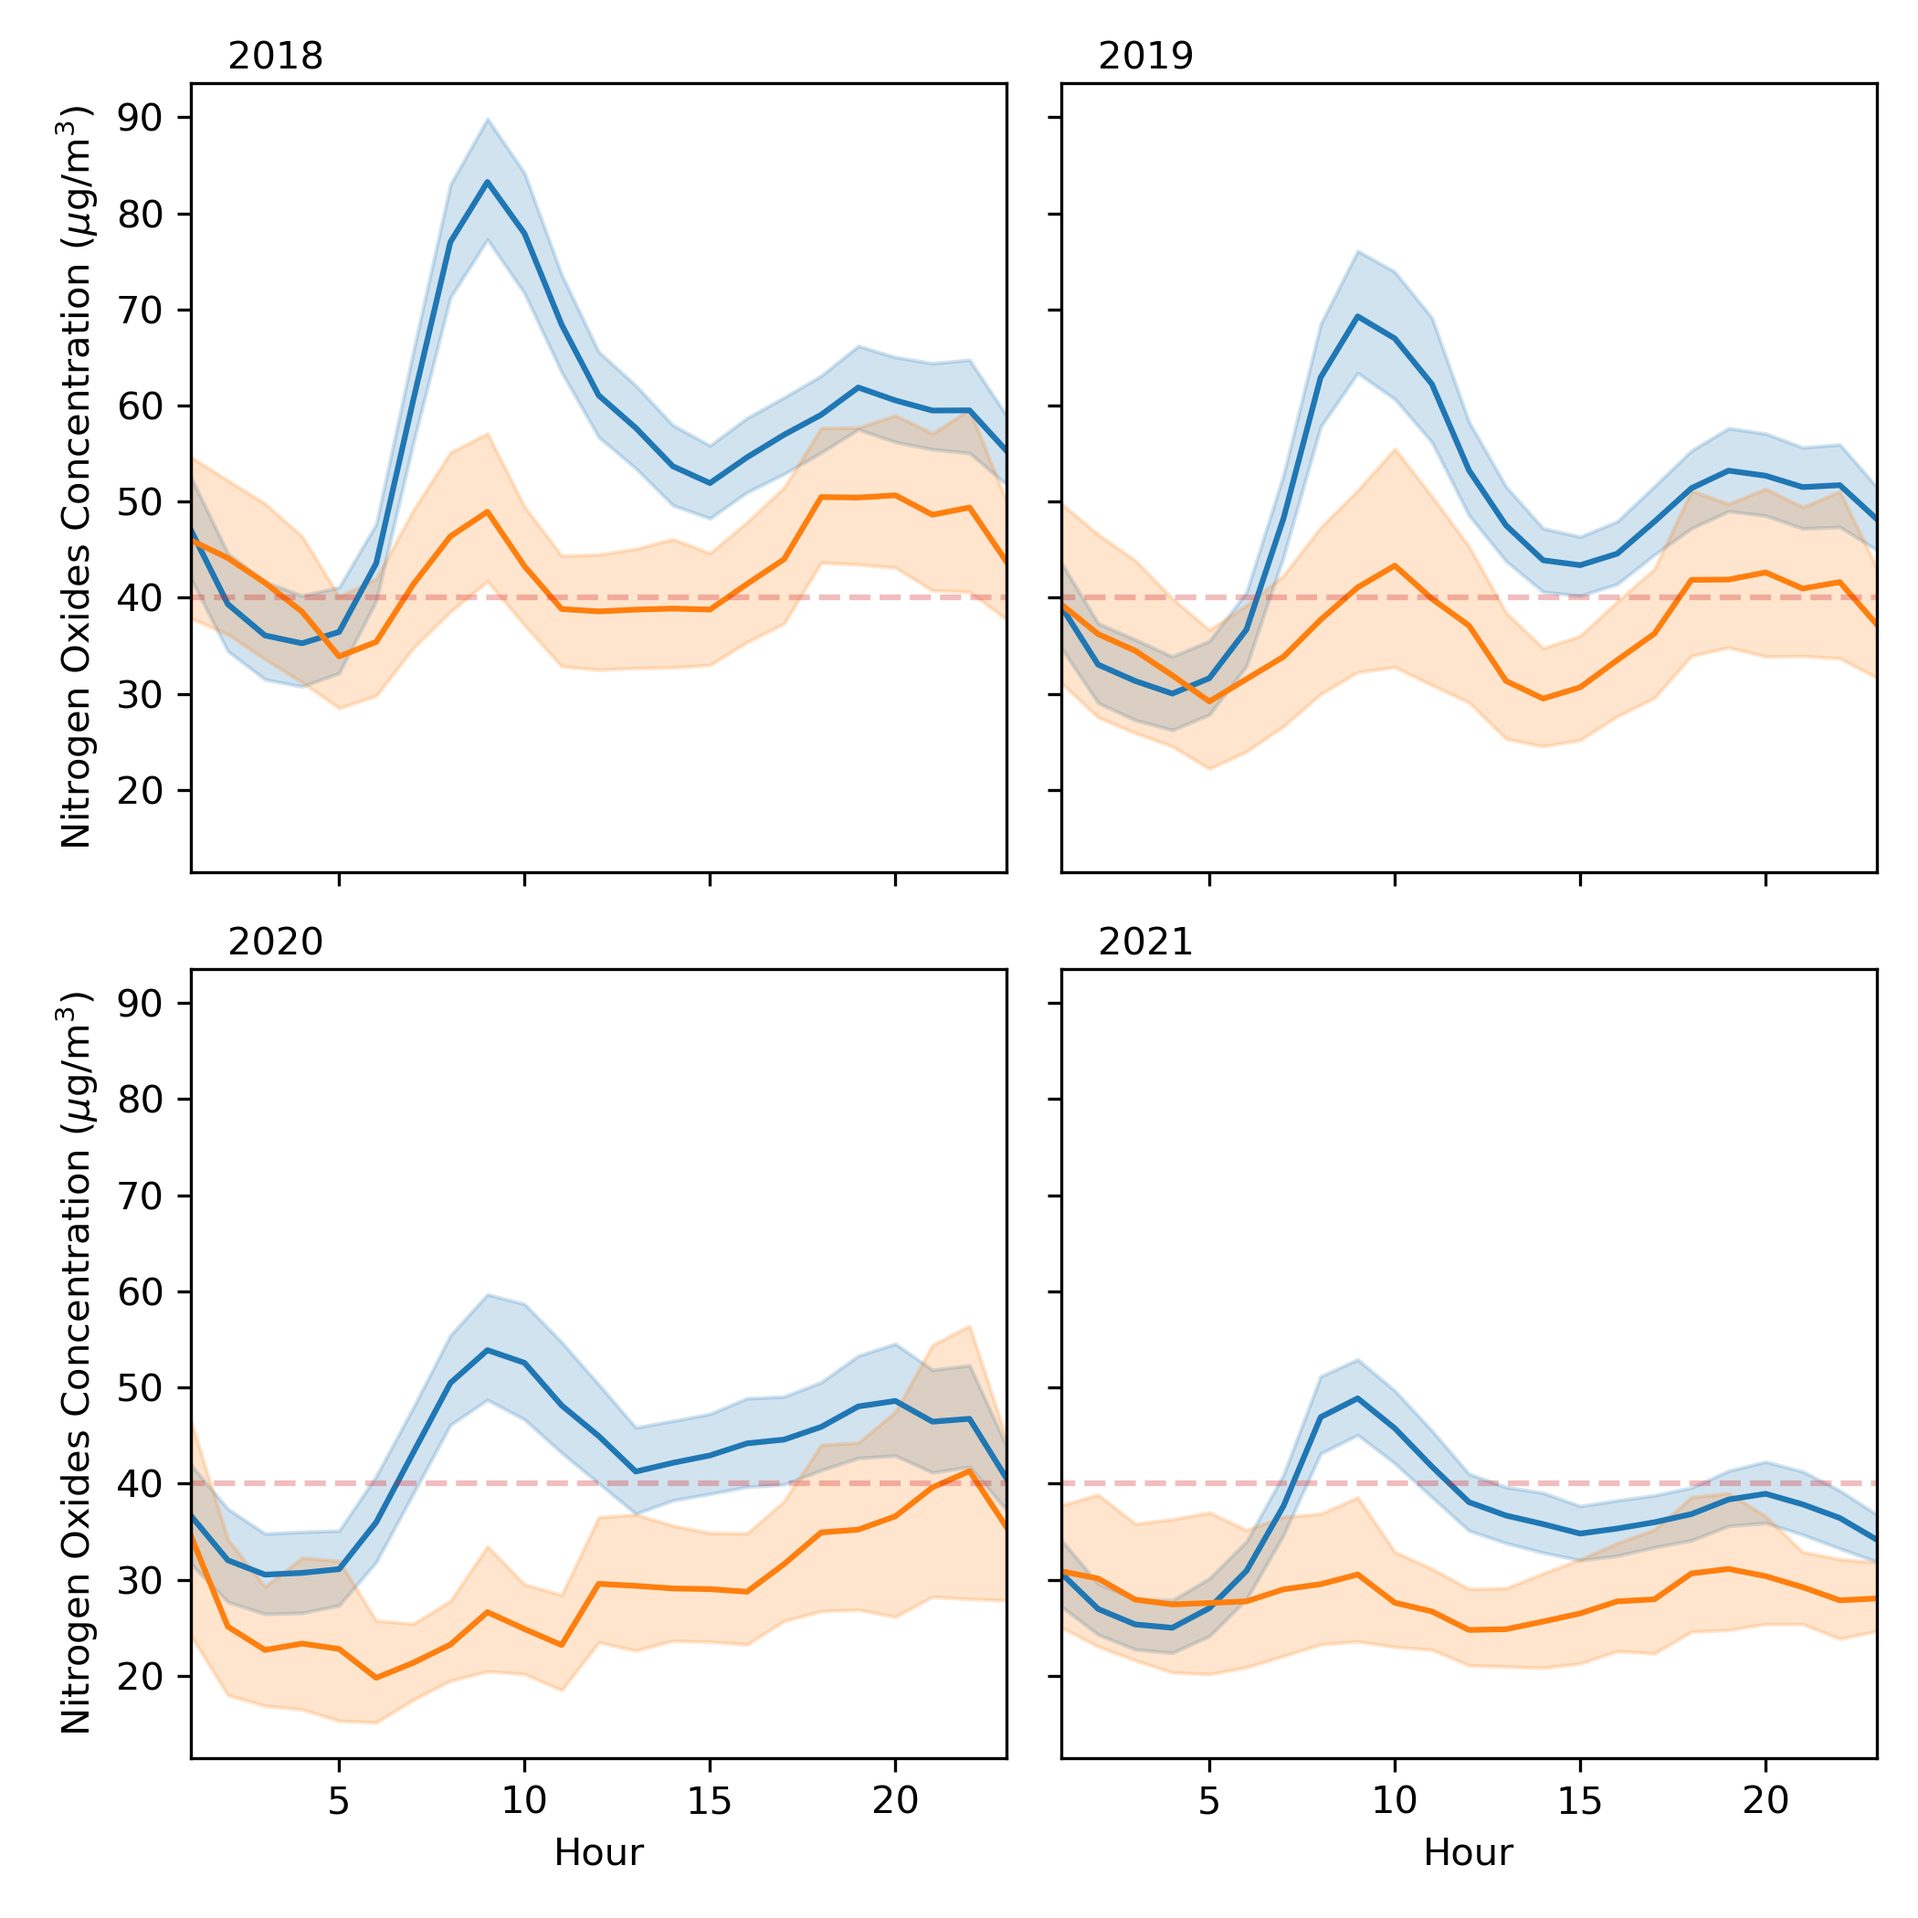
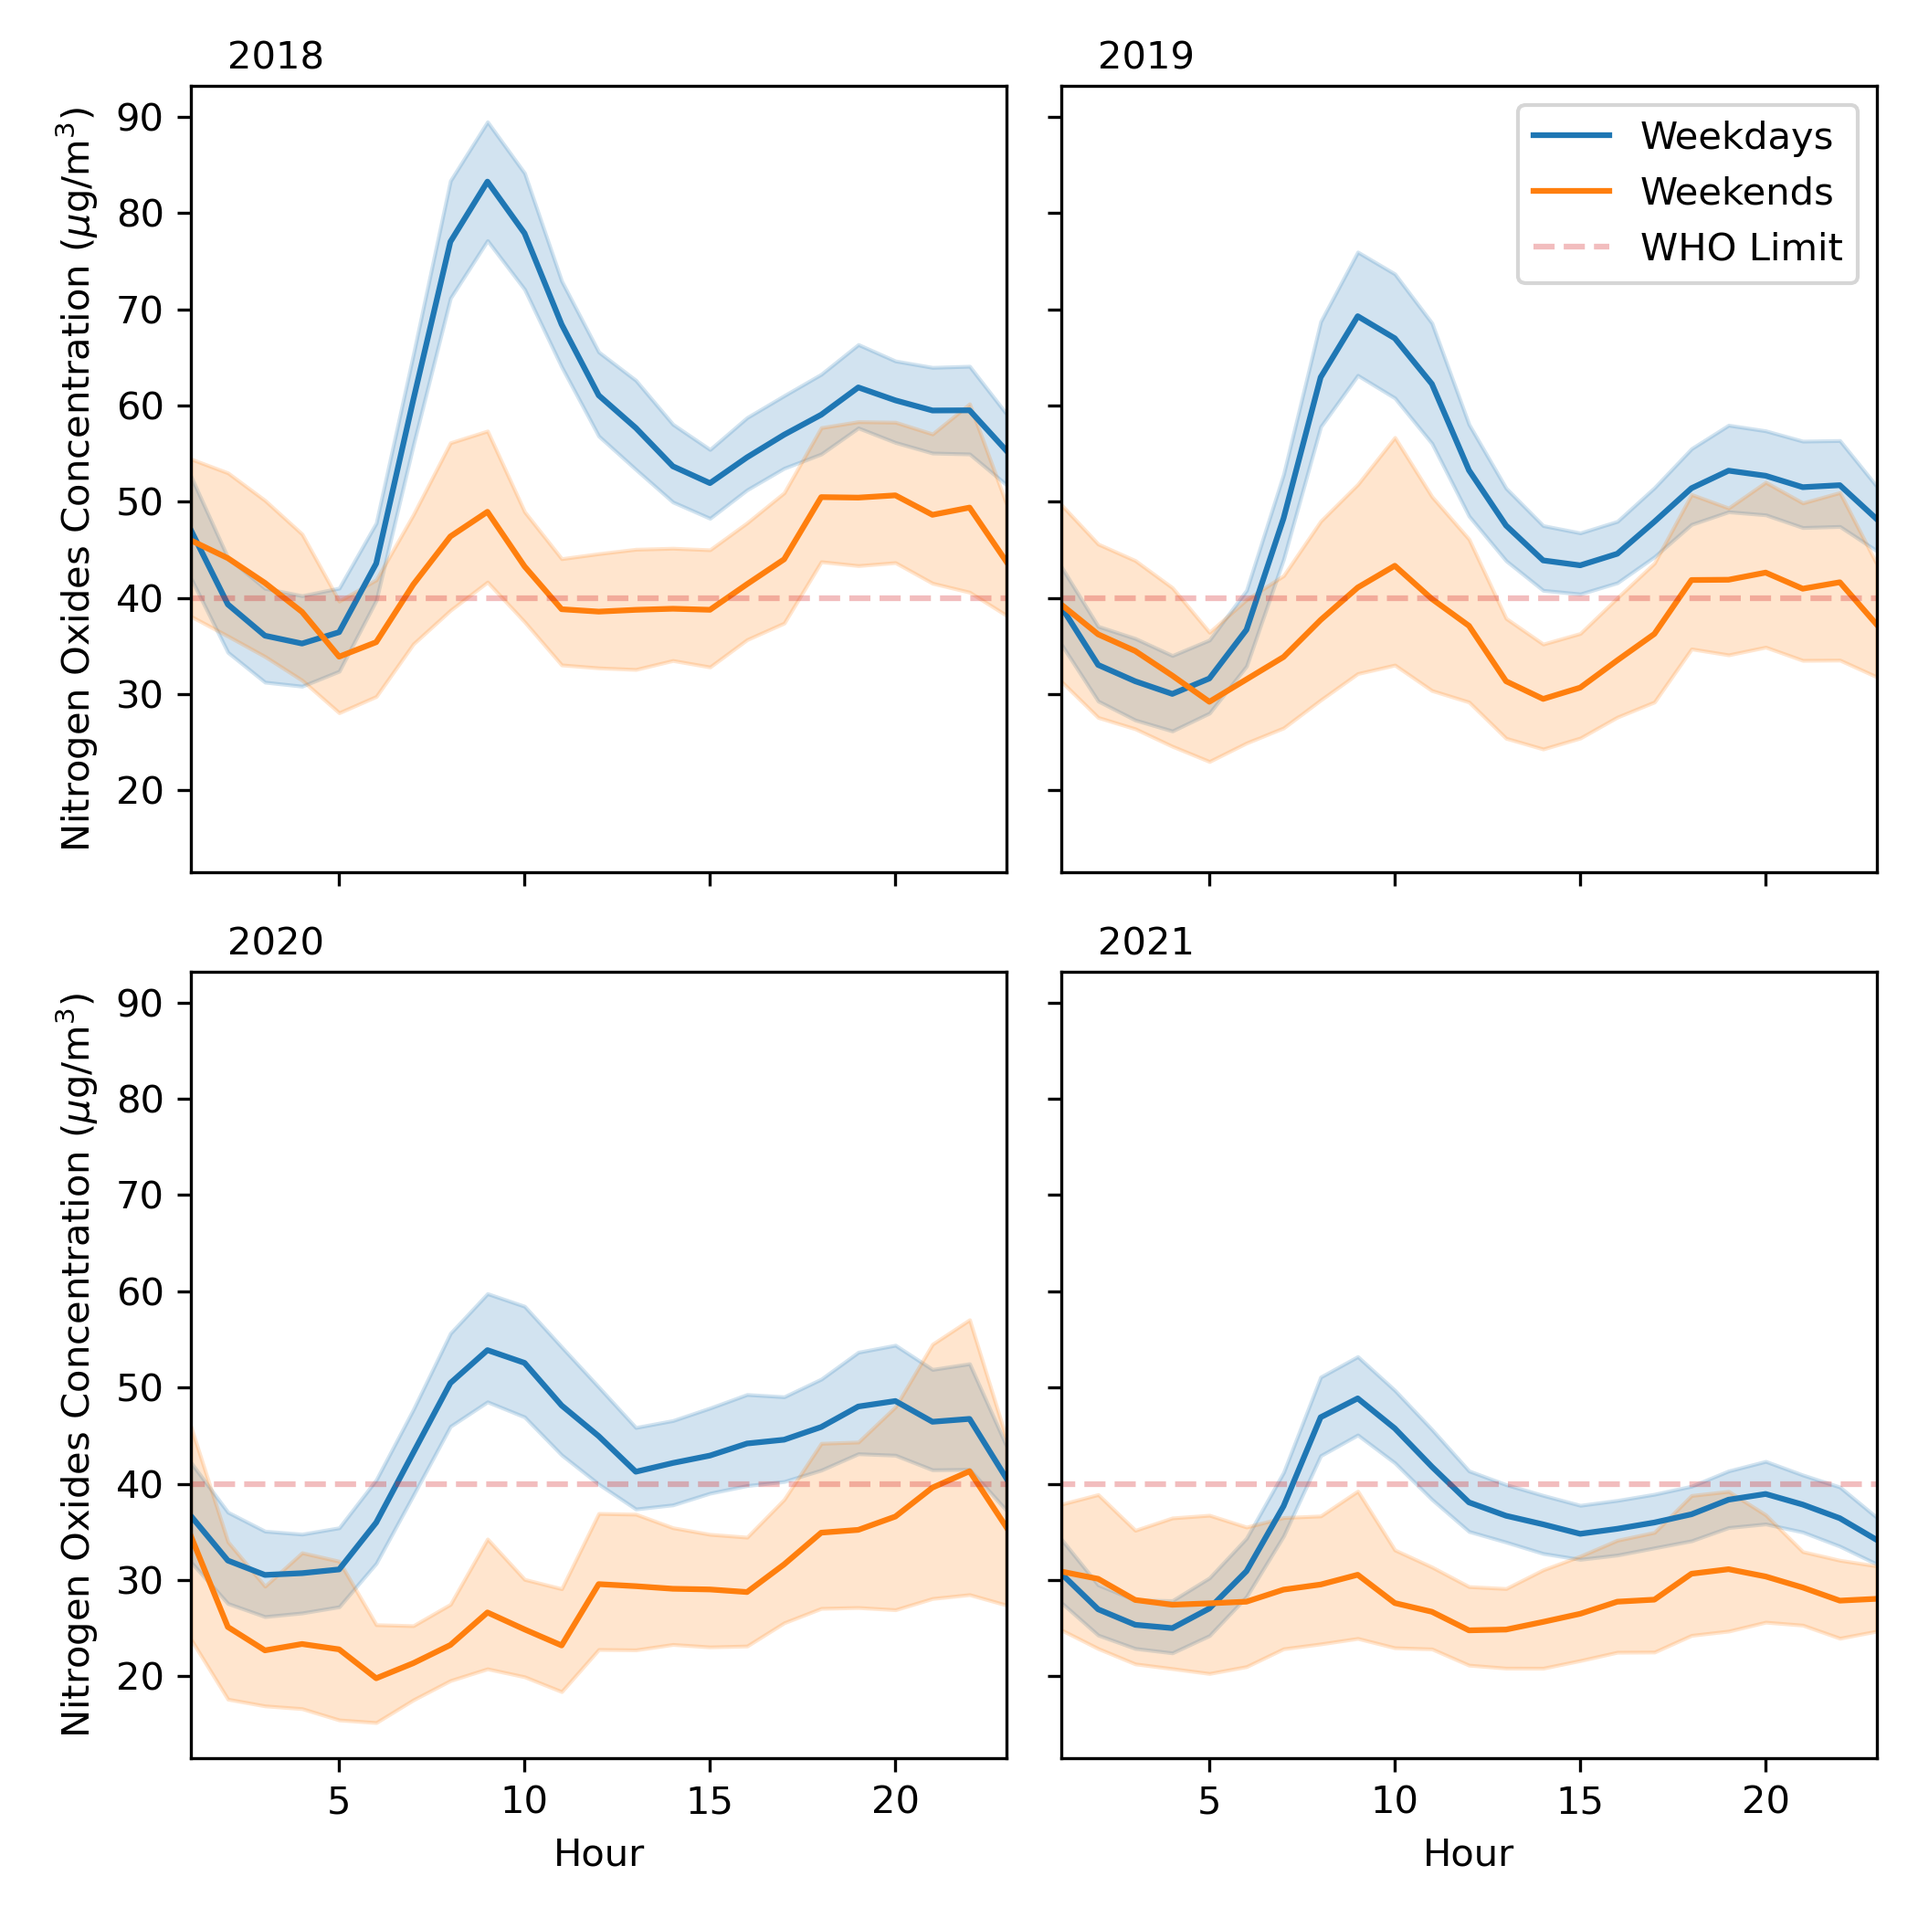
everything

diff --git a/Plotting.py b/Plotting.py
@@ -70,7 +70,7 @@ def plot1(df):
         ax.set_xlim(1, 23)
         ax.plot((0, 24), (40, 40), label='WHO Limit', color='C3', alpha=0.3, ls='dashed')
         ax.legend()
-        if i != 4:
+        if i != 1:
             ax.get_legend().remove()
 
     #fig.suptitle('Hourly concentrations of Sulphur dioxide sorted by year', y=0.99)
@@ -91,8 +91,8 @@ def plot2(df):
         q = sns.lineplot(data=df_temp, x='Year', y=values[i], ax=ax, color='#52acc8', errorbar='sd')
         bottom, top = ax.get_ylim()
         bottom = 0 if bottom <= 0 else bottom
-        ax.fill_between((start, stop), (bottom, bottom), (top, top), alpha=0.1, color='grey', zorder=1.99)
-        ax.fill_between((stop, end), (bottom, bottom), (top, top), alpha=0.2, color='grey', zorder=1.99)
+        ax.fill_between((start, stop), (bottom, bottom), (top, top), alpha=0.15, color='grey', zorder=1.99, lw=0)
+        ax.fill_between((stop, end), (bottom, bottom), (top, top), alpha=0.3, color='grey', zorder=1.99, lw=0)
         ax.set_ylim(bottom, top)
 
         ydata = q.get_lines()[-1].get_ydata()
@@ -106,29 +106,29 @@ def plot2(df):
         a1, b1 = np.polyfit(xdata1, ydata1, 1)
         a2, b2 = np.polyfit(xdata2, ydata2, 1)
         a3, b3 = np.polyfit(xdata3, ydata3, 1)
-        ax.plot(xdata1, a1 * xdata1 + b1, label='Pre LEZ', ls='-.')
-        ax.plot(xdata2, a2 * xdata2 + b2, label='LEZ', ls='-.')
-        ax.plot(xdata3, a3 * xdata3 + b3, label='ULEZ', ls='-.')
-        ax.text(1998.5, bottom + (top - bottom) / 40, f'{a1.round(2)}', fontsize=8, color='C0')
-        ax.text(2019.3, bottom + (top - bottom) / 40, f'{a3.round(2)}', fontsize=8, color='C2')
+        #ax.plot(xdata1, a1 * xdata1 + b1, label='Pre LEZ', ls='-.')
+        #ax.plot(xdata2, a2 * xdata2 + b2, label='LEZ', ls='-.')
+        #ax.plot(xdata3, a3 * xdata3 + b3, label='ULEZ', ls='-.')
+        ax.text(1998.5, bottom + (top - bottom) / 40, f'{a1.round(2)}', fontsize=8)
+        ax.text(2019.3, bottom + (top - bottom) / 40, f'{a3.round(2)}', fontsize=8)
         ax.set_xlim(1992, 2023)
         ax.plot((0, 2024), (limits[i], limits[i]), label='WHO Limit', color='C3', alpha=0.3, ls='dashed')
         if i == 1:
-            ax.text(2009, bottom + (top - bottom) / 40, f'{a2.round(2)}', fontsize=8, color='C1')
+            ax.text(2009, bottom + (top - bottom) / 40, f'{a2.round(2)}', fontsize=8)
             first, last = ydata[list(xdata).index(start)], ydata[list(xdata).index(start+5)]
             ydata2[1] = first + (last - first) / 5
             ydata2[2] = first + 2 * (last - first) / 5
             ydata2[3] = first + 3 * (last - first) / 5
             ydata2[4] = first + 4 * (last - first) / 5
             a2, b2 = np.polyfit(xdata2, ydata2, 1)
-            ax.plot(xdata2, a2 * xdata2 + b2, color='grey', ls=':')
-            ax.text(2013, bottom + (top - bottom) / 40, f'/ {a2.round(2)}', fontsize=8, color='grey')
+            # ax.plot(xdata2, a2 * xdata2 + b2, color='grey', ls=':')
+            ax.text(2013, bottom + (top - bottom) / 40, f'/ {a2.round(2)}', fontsize=8)
             ax.set_xlim(1998, 2023)
         else:
-            ax.text(2012.5, bottom + (top - bottom) / 40, f'{a2.round(2)}', fontsize=8, color='C1')
+            ax.text(2012.5, bottom + (top - bottom) / 40, f'{a2.round(2)}', fontsize=8)
 
-        if i == 3:
-            ax.legend(loc='upper right', fontsize=8)
+        if i == 1:
+            ax.legend(loc='upper left', fontsize=8)
 
         ax.set_ylabel(fr'{names[i]} Concentration ($\mu$g/m$^3$)')
         if i > 1:
